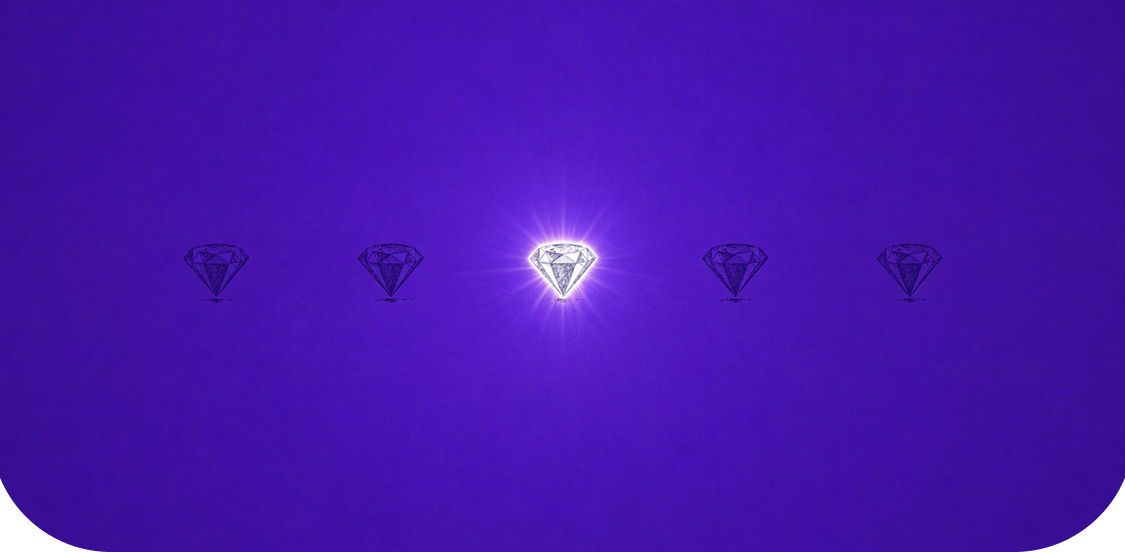
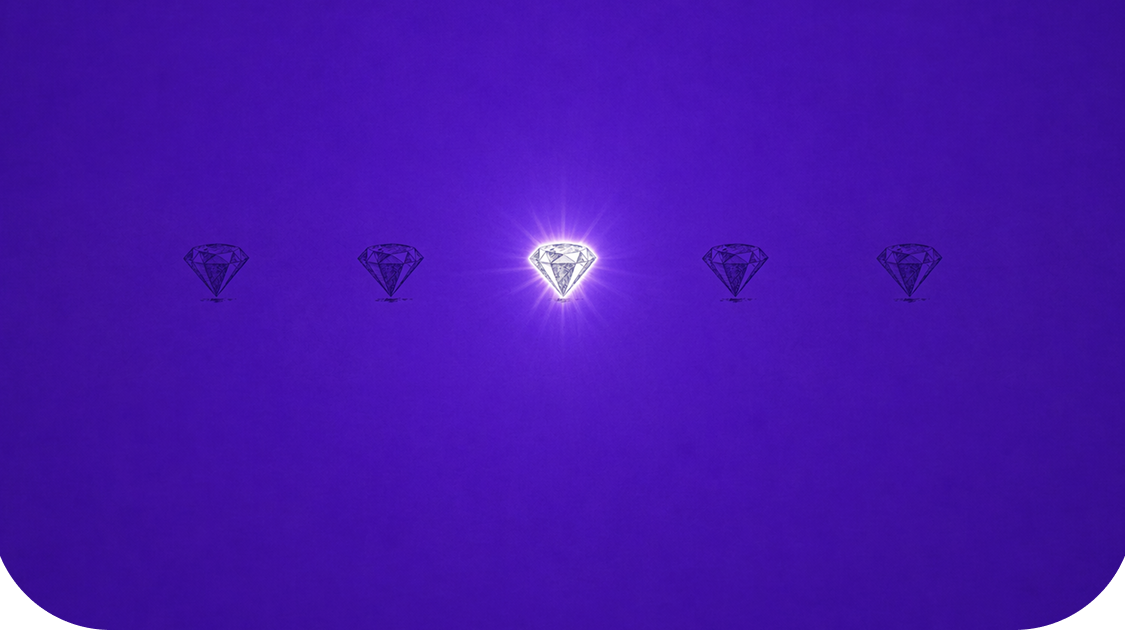
styles(cta): seção de cta e ajustes na seção de motivação

diff --git a/src/components/motivation/subtitle-motivation.tsx b/src/components/motivation/subtitle-motivation.tsx
@@ -1,16 +1,16 @@
 export default function SubTitleMotivation() {
   return (
-    <div className="text-white font-inter leading-3 text-[12px] mt-27 text-center px-6">
+    <div className="text-white font-inter leading-3 text-[10px] mt-28 text-center px-6">
       <p>
-        Vimos de perto marcas sendo tratadas sem estratégia, sem cuidado e sem
-        direção. Projetos atrasados, comunicação falha e decisões tomadas sem
-        clareza. Não fazia sentido continuar assim.
+        Vimos de perto marcas sendo tratadas sem estratégia, <br /> sem cuidado
+        e sem direção. Projetos atrasados, <br /> comunicação falha e decisões
+        tomadas sem clareza. <br /> Não fazia sentido continuar assim.
       </p>
       <p className="mt-2">
         Criamos o Studio Claraval para ser o oposto disso.{' '}
         <span className="font-bold">
-          Um estúdio que pensa antes de executar, organiza antes de criar e
-          constrói marcas com intenção.
+          Um <br /> estúdio que pensa antes <br /> de executar, organiza antes
+          de criar e constrói marcas com intenção.
         </span>
       </p>
     </div>

diff --git a/src/components/cta/hero-cta.tsx b/src/components/cta/hero-cta.tsx
@@ -1,0 +1,33 @@
+import Button from '../hero/button';
+import FlechaIcon from '../../assets/icons/flecha.svg?react';
+
+export default function HeroCta() {
+  return (
+    <div className="-mx-12 h-77 bg-[url('./assets/images/background-logo.png')] bg-cover bg-center mt-5">
+      <div className="relative">
+        <h3 className="text-[10px] text-white text-center uppercase font-oranienbaum pt-22">
+          Se você quer parar de <br /> improvisar e começar a <br /> estruturar
+          sua marca, <br />{' '}
+          <span className="text-[#332553]">
+            o Studio Claraval é o <br /> próximo passo
+          </span>
+          .
+        </h3>
+        <Button
+          icon={FlechaIcon}
+          type="button"
+          className="
+          absolute top-full left-1/2 -translate-x-1/2 border border-[#A180EC] rounded-[3px]
+          mt-1
+          font-inter text-white
+          p-2 text-[8px]
+          bg-[#A180EC]/80
+          shadow-[0_0_2.776px_0_#A180EC]
+        "
+        >
+          Fale com a sua âgencia
+        </Button>
+      </div>
+    </div>
+  );
+}

diff --git a/src/App.tsx b/src/App.tsx
@@ -1,4 +1,6 @@
 import AboutSection from './components/about/about-section';
+import CTASection from './components/cta/cta-section';
+import Footer from './components/footer/footer';
 import Hero from './components/hero/hero';
 import MotivationSection from './components/motivation/motivation-section';
 
@@ -8,6 +10,8 @@ export default function App() {
       <Hero />
       <MotivationSection />
       <AboutSection />
+      <CTASection />
+      <Footer />
     </>
   );
 }

diff --git a/src/components/cta/subtile-cta.tsx b/src/components/cta/subtile-cta.tsx
@@ -1,0 +1,15 @@
+export default function SubtitleCta() {
+  return (
+    <div className="text-white text-[12px] mt-3 text-center">
+      <p>
+        Crescer é assumir responsabilidade <br /> sobre o que está sendo
+        construído.
+      </p>
+      <p className="mt-2">
+        Por isso, conduzimos cada projeto com <br /> seriedade, intenção e
+        respeito ao <br />
+        processo como se o projeto fosse nosso.
+      </p>
+    </div>
+  );
+}

diff --git a/src/components/motivation/title-motivation.tsx b/src/components/motivation/title-motivation.tsx
@@ -1,6 +1,6 @@
 export default function TitleMotivation() {
   return (
-    <h3 className="text-white uppercase font-oranienbaum mt-10 leading-3.5 text-center">
+    <h3 className="text-white uppercase font-oranienbaum mt-4.5 leading-3.5 text-center text-[15px]">
       Claraval nasceu da <span>insatisfação</span> <br /> com um mercado que
       promete <br /> muito e entrega pouco.
     </h3>

diff --git a/src/components/motivation/motivation-section.tsx b/src/components/motivation/motivation-section.tsx
@@ -7,7 +7,8 @@ export default function MotivationSection() {
       className="w-full h-75
         bg-[url('./assets/images/background-diamont.png')]
         bg-cover bg-center bg-no-repeat
-        mx-auto flex flex-col items-center lg:items-start"
+        mx-auto flex flex-col items-center
+        rounded-b-[20px]"
     >
       <TitleMotivation />
       <SubTitleMotivation />

diff --git a/src/components/cta/cta-section.tsx b/src/components/cta/cta-section.tsx
@@ -1,0 +1,13 @@
+import HeroCta from './hero-cta';
+import SubtitleCta from './subtile-cta';
+import TitleCta from './title-cta';
+
+export default function CTASection() {
+  return (
+    <section className="h-125.5 bg-[url('./assets/images/background-cta.png')] bg-cover mx-6 mt-2 relative">
+      <TitleCta />
+      <SubtitleCta />
+      <HeroCta />
+    </section>
+  );
+}

diff --git a/src/components/cta/title-cta.tsx b/src/components/cta/title-cta.tsx
@@ -1,0 +1,8 @@
+export default function TitleCta() {
+  return (
+    <h1 className="uppercase text-[16px] text-white font-oranienbaum text-center pt-4">
+      Acreditamos que crescer <br />
+      <span className="text-[#A180EC]">não é apenas faturar mais</span>.
+    </h1>
+  );
+}
